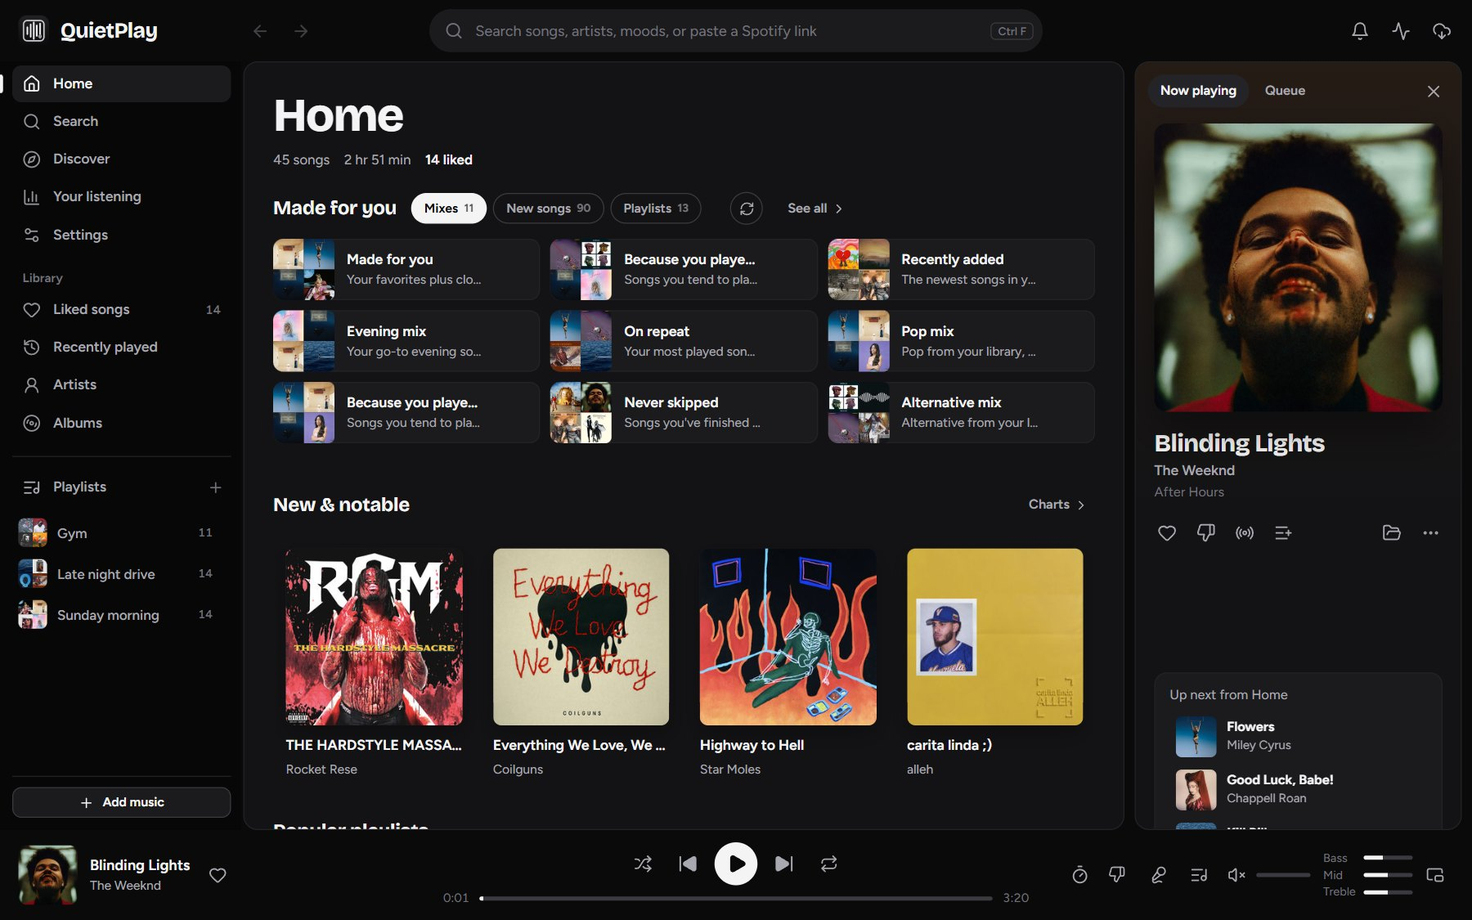
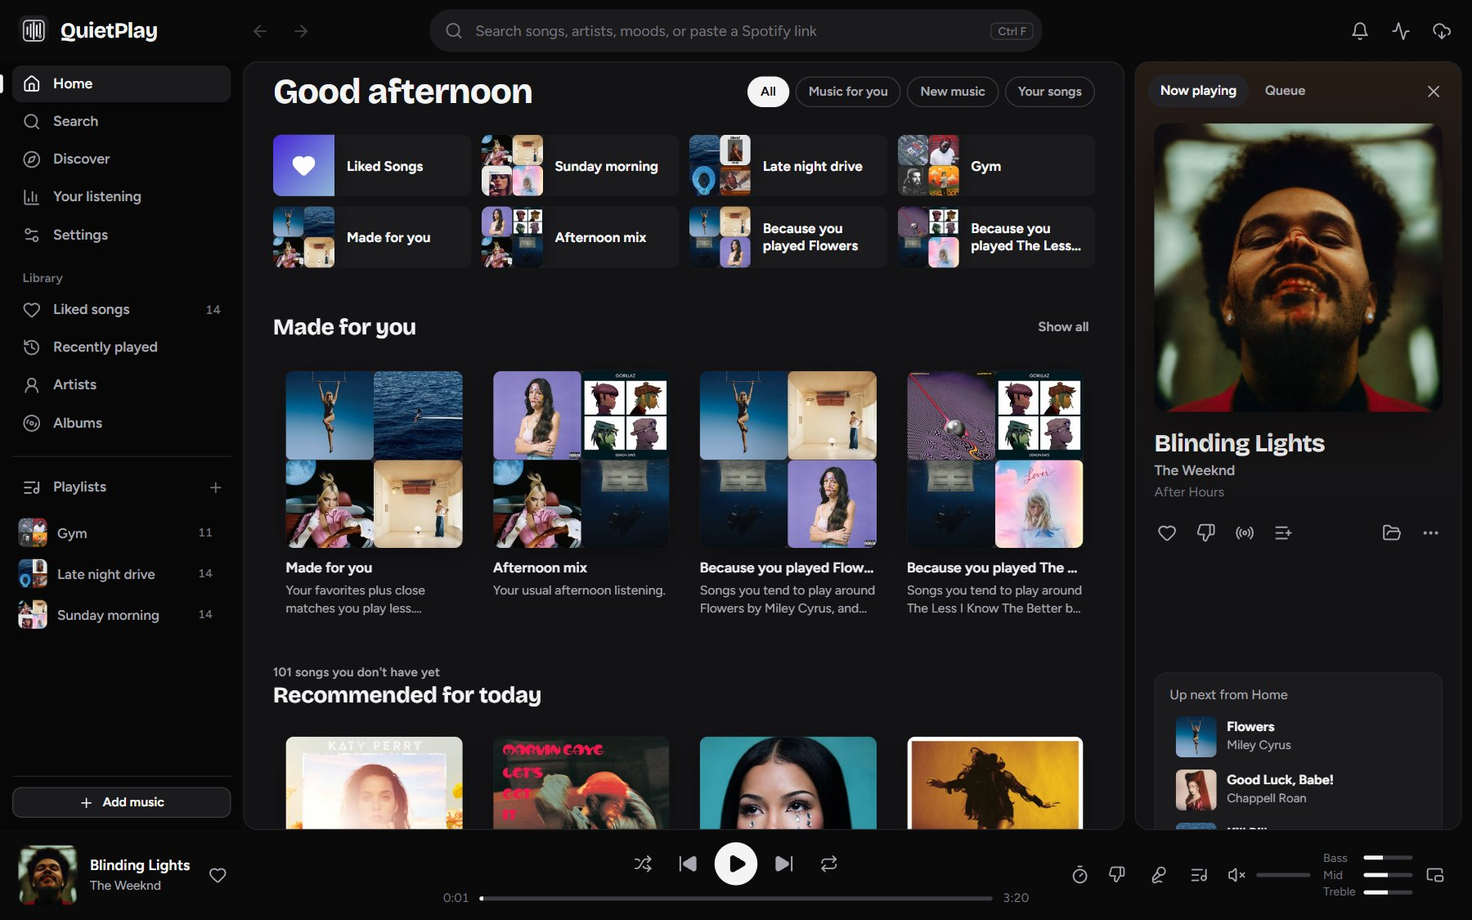
QuietPlay 2.2.27: Spotify-style Home, About the artist, more music sources

Changed region(s): [[0.1867, 0.0622, 0.7467, 0.9022], [0.7156, 0.3422, 0.7467, 0.3733]]

diff --git a/README.md b/README.md
@@ -8,9 +8,9 @@
 
 No account. No subscription. Nothing you play leaves your computer.
 
-<a id="get-quietplay"></a><a href="https://github.com/cooperwwwwww/QuietPlay-downloads/releases/download/v2.2.26/QuietPlay-2.2.26-Windows-Setup.exe"><img src="assets/download-windows.svg" alt="Download QuietPlay 2.2.26 for Windows" width="340"></a>
+<a id="get-quietplay"></a><a href="https://github.com/cooperwwwwww/QuietPlay-downloads/releases/download/v2.2.27/QuietPlay-2.2.27-Windows-Setup.exe"><img src="assets/download-windows.svg" alt="Download QuietPlay 2.2.27 for Windows" width="340"></a>
 
-Version 2.2.26 · [What's new](#new-in-2226) · [Help](FAQ.md) · [Report a problem](https://github.com/cooperwwwwww/QuietPlay-downloads/issues/new?template=bug_report.yml)
+Version 2.2.27 · [What's new](#new-in-2227) · [Help](FAQ.md) · [Report a problem](https://github.com/cooperwwwwww/QuietPlay-downloads/issues/new?template=bug_report.yml)
 
 </div>
 
@@ -18,7 +18,7 @@ Version 2.2.26 · [What's new](#new-in-2226) · [Help](FAQ.md) · [Report a prob
 
 <a id="install-quietplay"></a>
 
-1. **Click the button above.** Your browser downloads `QuietPlay-2.2.26-Windows-Setup.exe`.
+1. **Click the button above.** Your browser downloads `QuietPlay-2.2.27-Windows-Setup.exe`.
 2. **Open the file.** If Windows says *"Windows protected your PC"*, choose **More info**, check the
    file name, then **Run anyway**. This shows up because QuietPlay is new and not code-signed yet;
    [why this happens](#windows-security-notice).
@@ -32,7 +32,7 @@ the app. One click, and your music, playlists and settings stay in place.
 
 | Your music, mixes and recommendations | Moods made from your library |
 | --- | --- |
-| ![Home with Made for you tabs: mixes, new songs and playlists](assets/quietplay-home-playlists.jpg) | ![The Party mood: your songs that fit, with editors' playlists and new songs](assets/quietplay-mood.jpg) |
+| ![Home rows: Because you listen to, with songs by similar artists](assets/quietplay-home-playlists.jpg) | ![The Party mood: your songs that fit, with editors' playlists and new songs](assets/quietplay-mood.jpg) |
 | **Discover new music** | **Full playlists you can save and download** |
 | ![Discover: playlists picked from what you play](assets/quietplay-discover.jpg) | ![A 60-song recommended playlist with previews and Download and save](assets/quietplay-playlist.jpg) |
 | **Your listening** | **Search, moods and quick picks** |
@@ -40,7 +40,7 @@ the app. One click, and your music, playlists and settings stay in place.
 | **Artist pages with a bio** | **Charts and new music** |
 | ![An artist page: popular songs, discography and Follow](assets/quietplay-artist.jpg) | ![Charts: New and notable and the Top 50](assets/quietplay-charts.jpg) |
 
-*Screenshots of QuietPlay 2.2.26 with a demo library of well-known songs.*
+*Screenshots of QuietPlay 2.2.27 with a demo library of well-known songs.*
 
 ## What it does
 
@@ -61,20 +61,22 @@ the app. One click, and your music, playlists and settings stay in place.
 
 Only download music you have permission to save.
 
-## New in 2.2.26
+## New in 2.2.27
 
-- **Online music, Spotify-style:** search artists, albums and playlists; artist pages with a bio,
-  popular songs, discography and "Fans also like"; album, playlist and chart pages.
-  [How to](USER_GUIDE.md#online-music-artists-and-charts)
-- **Release Radar** on Home and a **notification bell** that updates as things happen.
-- **Offline and online modes,** with a **Work offline** switch.
-- **Recommended songs** under your playlists, and **Your year in music**.
-- Downloads try more sources, search finds more songs, **Delete from this PC**, and an
-  **Up next** you can reorder and mix up.
+- **A Home page like Spotify's:** a greeting, filter chips, quick access to your favorites and about
+  20 rows of cards, including **Recommended for today** (about 100 songs), **More from artists you
+  love**, **Because you listen to…**, **More like…**, charts and popular playlists.
+  [How to](USER_GUIDE.md#find-and-play)
+- **About the artist** in Now playing: photo, fans, **Follow** and the bio, plus **Credits**.
+- **Browse all** genres in Search, with a page for each genre.
+- **More places to find music:** search also shows Audius and Bandcamp, and downloads try Audius
+  when no other source has the song.
+- **Rows always line up,** with no short last row.
 
-### New in 2.2.25
+### New in 2.2.26
 
-- **Recommendations skip songs you already have,** smooth transitions, and five songs in Up next.
+- **Online music, Spotify-style:** artists, albums, playlists and charts, Release Radar, a
+  notification bell, and offline and online modes.
 
 ### New in 2.2.20
 
@@ -94,14 +96,14 @@ Only download music you have permission to save.
 
 ## Windows security notice
 
-QuietPlay 2.2.26 is not Windows code-signed yet, so Microsoft Defender SmartScreen may show
+QuietPlay 2.2.27 is not Windows code-signed yet, so Microsoft Defender SmartScreen may show
 **Windows protected your PC**. That warning means Windows doesn't recognize the app yet; it doesn't
 say the file is harmful.
 
 ![How to check the Windows warning: More info, check the file name, then Run anyway](assets/windows-security-guide.svg)
 
-1. Make sure you downloaded `QuietPlay-2.2.26-Windows-Setup.exe` from
-   [the official release](https://github.com/cooperwwwwww/QuietPlay-downloads/releases/tag/v2.2.26). You can
+1. Make sure you downloaded `QuietPlay-2.2.27-Windows-Setup.exe` from
+   [the official release](https://github.com/cooperwwwwww/QuietPlay-downloads/releases/tag/v2.2.27). You can
    [compare its checksum](FAQ.md#check-the-downloaded-file).
 2. Choose **More info**, check the file name, then **Run anyway** only if Windows offers it.
 3. If there is no **Run anyway**, or you see Smart App Control or a malware warning, stop and
@@ -116,7 +118,7 @@ replace the app files that changed (usually a few megabytes), are signed and che
 are applied, and restore the previous version if anything goes wrong.
 
 On a version older than 2.2.16? Open **Settings → Updates → Check for updates**. Version 2.2.1 can
-run [QuietPlayUpdater.exe](https://github.com/cooperwwwwww/QuietPlay-downloads/releases/download/v2.2.26/QuietPlayUpdater.exe); version
+run [QuietPlayUpdater.exe](https://github.com/cooperwwwwww/QuietPlay-downloads/releases/download/v2.2.27/QuietPlayUpdater.exe); version
 2.2.0 needs the installer once. [All versions](https://github.com/cooperwwwwww/QuietPlay-downloads/releases)
 
 ## Requirements

diff --git a/USER_GUIDE.md b/USER_GUIDE.md
@@ -2,7 +2,7 @@
 
 [QuietPlay](README.md) | [FAQ](FAQ.md) | [Downloads](https://github.com/cooperwwwwww/QuietPlay-downloads/releases)
 
-This guide is for **QuietPlay 2.2.26** on Windows. Sections marked in development
+This guide is for **QuietPlay 2.2.27** on Windows. Sections marked in development
 describe upcoming features, not the current download.
 
 ## Jump to a Topic
@@ -63,10 +63,16 @@ Untagged files named like `Artist - Title.mp3` are read as artist and title.
 
 ## Find and Play
 
-- **Home** starts with **Made for you**: pick **Mixes** (local mixes you can
-  play straight away), **New songs** or **Playlists** with the tabs next to the
-  title. Each tab shows three rows that fill the window; use the left/right arrows to see more.
-  QuietPlay remembers the tab.
+- **Home** (from 2.2.27) works like Spotify's. It starts with a greeting and four chips: **All**,
+  **Music for you**, **New music** and **Your songs** (your full song list). Below are quick-access tiles
+  for Liked Songs, your playlists and mixes (point at one and press play), then rows of cards:
+  **Made for you**, **Recommended for today** (about 100 songs you don't have yet), **Jump back in**,
+  **Your top artists**, **More from artists you love**, **Because you listen to…**, **More like…**,
+  **Release Radar**, **Albums you might like**, **New & notable**, **Top songs right now**, **Popular
+  playlists**, **Top albums**, **Popular artists** and **Your favorite albums**. Click a song card to hear
+  a preview, and use the arrows to see more of a row. The personal rows are prepared in the background
+  after QuietPlay opens and refreshed every few hours. QuietPlay remembers the chip you picked.
+- **Made for you** on Discover still has **Mixes**, **New songs** and **Playlists**.
   Click a recommended song to preview it, or use its download button. Open a
   recommended playlist to see every song, preview, download a song, or
   **Download & save** the full mix. **See all** opens Discover, and the refresh
@@ -196,7 +202,8 @@ the names of the songs and artists are kept.
 ## Online Music, Artists and Charts
 
 From **2.2.26** QuietPlay has an online catalog, like Spotify's. Catalog data comes from Deezer's public
-catalog and Apple's iTunes Search; artist bios come from Wikipedia and link to their article.
+catalog and Apple's iTunes Search; from 2.2.27 search also shows songs from Audius and Bandcamp. Artist
+bios come from Wikipedia and link to their article.
 
 - **Search** shows **Artists**, **Albums** and **Playlists** tabs above the online songs. Open any of them.
 - **Artist pages:** **Follow**, fans, popular songs, the discography (albums, singles, compilations),
@@ -210,6 +217,11 @@ catalog and Apple's iTunes Search; artist bios come from Wikipedia and link to t
 - **Release Radar** on Home lists releases from the last month by artists you follow or play most.
 - **Recommended songs** at the bottom of your playlists suggests songs that fit them.
 - **Your year in music** (Your listening → the button next to the time periods) recaps your year.
+- **About the artist** (from 2.2.27) in the Now playing panel, below Up next: the artist's photo, fans,
+  **Follow** and their bio (**Read more** shows all of it). Click the photo to open the artist page.
+  **Credits** below it lists the song's artists, album, genre and year.
+- **Browse all** (from 2.2.27) on the Search page: genre tiles, each opening a page of the genre's
+  popular artists and playlists.
 
 ### Notifications
 
@@ -307,8 +319,10 @@ Downloads, with more under **Show advanced**.
 ### If a Download Fails
 
 If a song cannot be downloaded from your chosen source, QuietPlay tries
-YouTube Music, YouTube, SoundCloud and Bandcamp, then a broader search, before
-reporting it as failed. When Spotify cannot provide song details, searches and
+YouTube Music, YouTube, SoundCloud and Bandcamp, then a broader search, then
+(from 2.2.27) Audius, before reporting it as failed. From Audius, QuietPlay only uses a close
+match (same title and artist, no remix, cover or live version unless you asked for one), tags it
+with its cover and saves it in the format you chose. When Spotify cannot provide song details, searches and
 Spotify song links use Apple's public music catalogue instead.
 Songs that already downloaded are not fetched again. Use **Retry** on a failed
 song in the Downloads panel to try it again. Album and playlist links
@@ -390,7 +404,7 @@ Showing a song title doesn't grant permission to broadcast the recording.
 ### Overlay Customization (Unreleased)
 
 The following controls are implemented in the development build and are **not
-in the current 2.2.26 installer**. The existing download still has the basic
+in the current 2.2.27 installer**. The existing download still has the basic
 overlay options in Streaming settings.
 
 Open **Settings → Streaming → Overlay appearance** in the upcoming build:
@@ -472,18 +486,18 @@ Backups are retained for the two most recent update transactions.
 The release signature is separate from Windows Authenticode; QuietPlay is still
 not Windows code-signed, and Windows security warnings and blocks still apply.
 
-### Updating to 2.2.26
+### Updating to 2.2.27
 
-Use the update screen above. From **2.2.24 or 2.2.25** the download is about **8.1 MB**,
-from **2.2.7 to 2.2.23** about **23.3 MB**, and from **2.2.2, 2.2.3 or 2.2.4** about **40.2 MB**.
+Use the update screen above. From **2.2.24 to 2.2.26** the download is about **8.2 MB**,
+from **2.2.7 to 2.2.23** about **23.4 MB**, and from **2.2.2, 2.2.3 or 2.2.4** about **40.4 MB**.
 A bar shows the check, the download, verification and, in the updater window, each file as it is installed. It reuses the unchanged runtime
 files, so no full installer is needed for a healthy installation.
 
 ### First Upgrade From an Older Version
 
-- **2.2.0:** download the official **2.2.26 Windows Setup** and run it over the
+- **2.2.0:** download the official **2.2.27 Windows Setup** and run it over the
   existing installation once. Do not uninstall first. This enables file updates.
-- **2.2.1:** download **QuietPlayUpdater.exe** from the official **2.2.26 release**,
+- **2.2.1:** download **QuietPlayUpdater.exe** from the official **2.2.27 release**,
   run it, choose **Download changed files**, then **Update and restart**. This
   transfers about 40 MB instead of the full setup. Full setup is also available.
 

diff --git a/RELEASE_NOTES.md b/RELEASE_NOTES.md
@@ -1,3 +1,22 @@
+# QuietPlay 2.2.27
+
+QuietPlay 2.2.27 brings a Home page like Spotify's, with far more recommendations, an About the artist card in Now playing, genres to browse, and more places to find music.
+
+- **A new Home:** a greeting, filter chips (**All**, **Music for you**, **New music**, **Your songs**), quick access to Liked Songs, your playlists and mixes, and about 20 rows of cards. Rows include **Made for you**, **Recommended for today** (about 100 songs you don't have yet), **Jump back in**, **Your top artists**, **More from artists you love**, **Because you listen to…**, **More like…**, **Release Radar**, **Albums you might like**, **New & notable**, **Top songs right now**, **Popular playlists**, **Top albums**, **Popular artists** and **Your favorite albums**. Point at a card and press play.
+- **About the artist** in Now playing: the artist's photo, fans, **Follow** and their bio (with **Read more** and the Wikipedia link), plus **Credits** for the song.
+- **Browse all** in Search: colorful genre tiles, each opening a page of the genre's artists and playlists.
+- **More places to find music:** online search also shows songs from **Audius** (artists upload their own music) and **Bandcamp**. When YouTube Music, YouTube, SoundCloud, Piped and Bandcamp don't have a song, the download tries **Audius**, using only a close match (same title and artist, no remix or cover), tagged with its cover and saved in your chosen format.
+- **Rows always line up:** every row of cards has same-size cards and scrolls a page at a time, and grids never end with a short row.
+- **Fixed:** recommendations no longer stop short when Deezer's catalog asks QuietPlay to slow down.
+
+**Already on 2.2.16 to 2.2.26:** the **Update now** notice above the player does it in one click, or open **Settings → Updates → Check for updates** (about **8.2 MB** from 2.2.24 to 2.2.26, **23.4 MB** from 2.2.16 to 2.2.23). **On 2.2.7 to 2.2.15:** the same steps (about **23.4 MB**). **On 2.2.2, 2.2.3 or 2.2.4:** the same steps, with **Download changed files** (about **40.4 MB**). Your music, library, playlists and settings stay in place.
+
+**On 2.2.1:** run `QuietPlayUpdater.exe` from this release for a direct changed-file upgrade of about **40.4 MB**. **On 2.2.0:** install `QuietPlay-2.2.27-Windows-Setup.exe` once over the existing app to enable file updates. Full setup is available for new PCs and repairs.
+
+Catalog data comes from Deezer's public catalog and Apple's iTunes Search; more search results come from Audius and Bandcamp; artist bios come from Wikipedia (CC BY-SA) and link to their article. Windows 10/11, 64-bit. Official release manifests are signed and every changed file's SHA-256 is checked. QuietPlay is still not Windows Authenticode-signed, so Windows may show a SmartScreen warning; see the [Windows security guide](https://github.com/cooperwwwwww/QuietPlay-downloads/blob/main/FAQ.md#windows-protected-your-pc). Verify downloads with `SHA256SUMS.txt`. Only download music you have permission to save. The OBS appearance editor remains unreleased.
+
+---
+
 # QuietPlay 2.2.26
 
 QuietPlay 2.2.26 brings online music, Spotify-style: artists, albums, playlists and charts, a Release Radar, live notifications, and proper offline and online modes.

diff --git a/ROADMAP.md b/ROADMAP.md
@@ -71,7 +71,7 @@ for listener ideas. Versioned release notes are the source of truth for what
 has actually shipped.
 
 
-Version **2.2.26** adds online music: artists, albums, playlists, charts, Release Radar, notifications and offline/online modes. Version **2.2.25** was smoother, with transitions, and skips songs you have in recommendations. Version **2.2.24** brought one-click updates and smooth audio during refreshes. Version **2.2.23** imported your music the way Spotify does, with TuneMyMusic. Version **2.2.22** learned your taste from other apps and recommends about twice as much. Version **2.2.21** showed mixes in a grid. Version **2.2.20** added one-click updates and a faster app. Version **2.2.19** added a taste quiz and starter picks for new listeners. Version **2.2.18** polished search and added mood playlists. Version **2.2.17** added mood mixes and a new search. Version **2.2.16** fixed update progress bars and artist names. Version **2.2.15** fixed Next stopping with "End of the list" offline. Version **2.2.14** made QuietPlay work properly offline and removed audio crackling. Version **2.2.13** gave Navidrome its own Settings tab and automatic reconnect. Version **2.2.12** added the optional Navidrome add-on. Version **2.2.11** found more cover art. Version **2.2.9** added Retry for failed downloads and a collapsible Made for you. Version **2.2.8** follows the sound device your PC is using. Version **2.2.7** retried failed downloads on other sources and keeps working
+Version **2.2.27** brings a Spotify-style Home, About the artist, genres and more music sources. Version **2.2.26** added online music: artists, albums, playlists, charts, Release Radar, notifications and offline/online modes. Version **2.2.25** was smoother, with transitions, and skips songs you have in recommendations. Version **2.2.24** brought one-click updates and smooth audio during refreshes. Version **2.2.23** imported your music the way Spotify does, with TuneMyMusic. Version **2.2.22** learned your taste from other apps and recommends about twice as much. Version **2.2.21** showed mixes in a grid. Version **2.2.20** added one-click updates and a faster app. Version **2.2.19** added a taste quiz and starter picks for new listeners. Version **2.2.18** polished search and added mood playlists. Version **2.2.17** added mood mixes and a new search. Version **2.2.16** fixed update progress bars and artist names. Version **2.2.15** fixed Next stopping with "End of the list" offline. Version **2.2.14** made QuietPlay work properly offline and removed audio crackling. Version **2.2.13** gave Navidrome its own Settings tab and automatic reconnect. Version **2.2.12** added the optional Navidrome add-on. Version **2.2.11** found more cover art. Version **2.2.9** added Retry for failed downloads and a collapsible Made for you. Version **2.2.8** follows the sound device your PC is using. Version **2.2.7** retried failed downloads on other sources and keeps working
 when Spotify is unavailable. Version **2.2.4** brought your mixes, new songs and full 50–60-song playlists
 together in one Made for you box on Home, keeps recommendations loaded between
 tabs, fixes recommended playlist downloads and redesigns Downloads and updates.

diff --git a/FAQ.md b/FAQ.md
@@ -36,15 +36,15 @@ not turn off Windows security. Code signing is planned.
 ## Windows Protected Your PC
 
 This is usually a **Microsoft Defender SmartScreen** reputation warning.
-QuietPlay 2.2.26 is not Windows code-signed. The warning is a reason to inspect
+QuietPlay 2.2.27 is not Windows code-signed. The warning is a reason to inspect
 the file; it is not proof that the file is safe or malicious.
 
-![Illustrated two-step Windows warning guide for the QuietPlay 2.2.26 installer](assets/windows-security-guide.svg)
+![Illustrated two-step Windows warning guide for the QuietPlay 2.2.27 installer](assets/windows-security-guide.svg)
 
 ### If You See More Info
 
-1. Confirm you intentionally downloaded **QuietPlay-2.2.26-Windows-Setup.exe**
-   from [the official 2.2.26 release](https://github.com/cooperwwwwww/QuietPlay-downloads/releases/tag/v2.2.26).
+1. Confirm you intentionally downloaded **QuietPlay-2.2.27-Windows-Setup.exe**
+   from [the official 2.2.27 release](https://github.com/cooperwwwwww/QuietPlay-downloads/releases/tag/v2.2.27).
    Compare its SHA-256 with **SHA256SUMS.txt** on that release if you want to
    verify the file's identity. A checksum is not a safety guarantee.
 2. Select **More info**, then check the app filename and publisher. This build
@@ -175,7 +175,7 @@ Showing a song title does not grant permission to broadcast the recording.
 ## Can I Customize the OBS Overlay?
 
 The current release has basic overlay options in Streaming settings. A larger
-appearance editor is implemented in development, **not in the 2.2.26 download**:
+appearance editor is implemented in development, **not in the 2.2.27 download**:
 six color pickers, transparency, fonts, artwork placement and sizes, borders,
 visible details, presets, reset and a live preview. It saves locally and does
 not change the audio route or your OBS scene.
@@ -214,8 +214,8 @@ restart** and approve. The official updater downloads a matching changed-file
 package, verifies its signed manifest and hashes, backs up the old files and
 checks startup. Failed or interrupted updates restore the previous app.
 
-**2.2.0** needs one manual 2.2.26 setup to gain this updater. **2.2.1** can instead
-run `QuietPlayUpdater.exe` from the official 2.2.26 release to download about
+**2.2.0** needs one manual 2.2.27 setup to gain this updater. **2.2.1** can instead
+run `QuietPlayUpdater.exe` from the official 2.2.27 release to download about
 40 MB of changed files. No uninstall is needed. New PCs and damaged or unsupported
 installations can use the full setup. Windows security checks remain enabled.
 

diff --git a/CHANGELOG.md b/CHANGELOG.md
@@ -2,7 +2,7 @@
 
 ## Unreleased - OBS Customization
 
-These features are not included in 2.2.26.
+These features are not included in 2.2.27.
 
 ### OBS Overlay Appearance
 
@@ -17,6 +17,22 @@ These features are not included in 2.2.26.
 - A sandboxed preview using the actual OBS renderer, even when the overlay
   server is off. Small browser sources scale the complete card instead of
   clipping its text. Existing saved colors and visibility choices are preserved.
+
+## 2.2.27 - A Spotify-style Home
+
+Released November 10, 2026 for Windows 10/11 (64-bit).
+
+- Home like Spotify's: greeting, filter chips, quick-access tiles and about 20 rows of cards, including
+  Recommended for today (about 100 songs), More from artists you love, Because you listen to, More
+  like, top artists, albums, charts and popular playlists.
+- About the artist (photo, fans, Follow, bio) and Credits in the Now playing panel.
+- Browse all genres on the Search page, with a page per genre.
+- Search also shows songs from Audius and Bandcamp; downloads try Audius when no other source has
+  the song (close matches only, tagged with the cover, in your chosen format).
+- Rows of cards line up (same-size cards, one page per scroll) and grids never end with a short row.
+- Fixed: recommendations stopping short when Deezer asked QuietPlay to slow down.
+- Signed changed-file packages support direct upgrades from 2.2.1 to 2.2.4,
+  2.2.7 to 2.2.9, and 2.2.11 to 2.2.26.
 
 ## 2.2.26 - Online Music
 

diff --git a/PLATFORMS.md b/PLATFORMS.md
@@ -2,12 +2,12 @@
 
 [QuietPlay](README.md) | [Downloads](README.md#get-quietplay) | [User guide](USER_GUIDE.md)
 
-**QuietPlay 2.2.26 is a Windows app.** Mac, Linux and Chromebook users can keep
+**QuietPlay 2.2.27 is a Windows app.** Mac, Linux and Chromebook users can keep
 using the experimental **1.54.1 Beta** packages from its
 [release page](https://github.com/cooperwwwwww/QuietPlay-downloads/releases/tag/v1.54.1-development).
 Those packages have the previous interface and are not updated to 2.x.
 
-## Windows (QuietPlay 2.2.26)
+## Windows (QuietPlay 2.2.27)
 
 Windows 10 or 11, Intel/AMD 64-bit, with the Microsoft Edge WebView2 Runtime
 (included with Windows 11; setup installs it when missing). Use
@@ -72,7 +72,7 @@ hardware verification. [Google's file-sharing guide](https://support.google.com/
 
 ## Feature Differences
 
-| Feature | Windows (2.2.26) | Experimental Mac / Linux (1.54.1 Beta) |
+| Feature | Windows (2.2.27) | Experimental Mac / Linux (1.54.1 Beta) |
 | --- | --- | --- |
 | Local music, playlists, lyrics, live EQ and real-audio visualizer | Available | Included in native build targets |
 | In-app search and optional spotDL downloads | Bundled | Native bundled companion; provider availability can vary |

diff --git a/OPTIONAL_DRIVERS.md b/OPTIONAL_DRIVERS.md
@@ -2,9 +2,9 @@
 
 [QuietPlay downloads](README.md#get-quietplay) | [User guide](USER_GUIDE.md) | [FAQ](FAQ.md)
 
-## Install QuietPlay 2.2.26
+## Install QuietPlay 2.2.27
 
-Download **QuietPlay-2.2.26-Windows-Setup.exe** from the
+Download **QuietPlay-2.2.27-Windows-Setup.exe** from the
 [official release](https://github.com/cooperwwwwww/QuietPlay-downloads/releases/latest)
 and run it, over the existing app if you already have one. Version 2.2.1 and
 later can also update from **Settings → Updates** without the full installer. Setup includes QuietPlay, its Python runtime, playback
